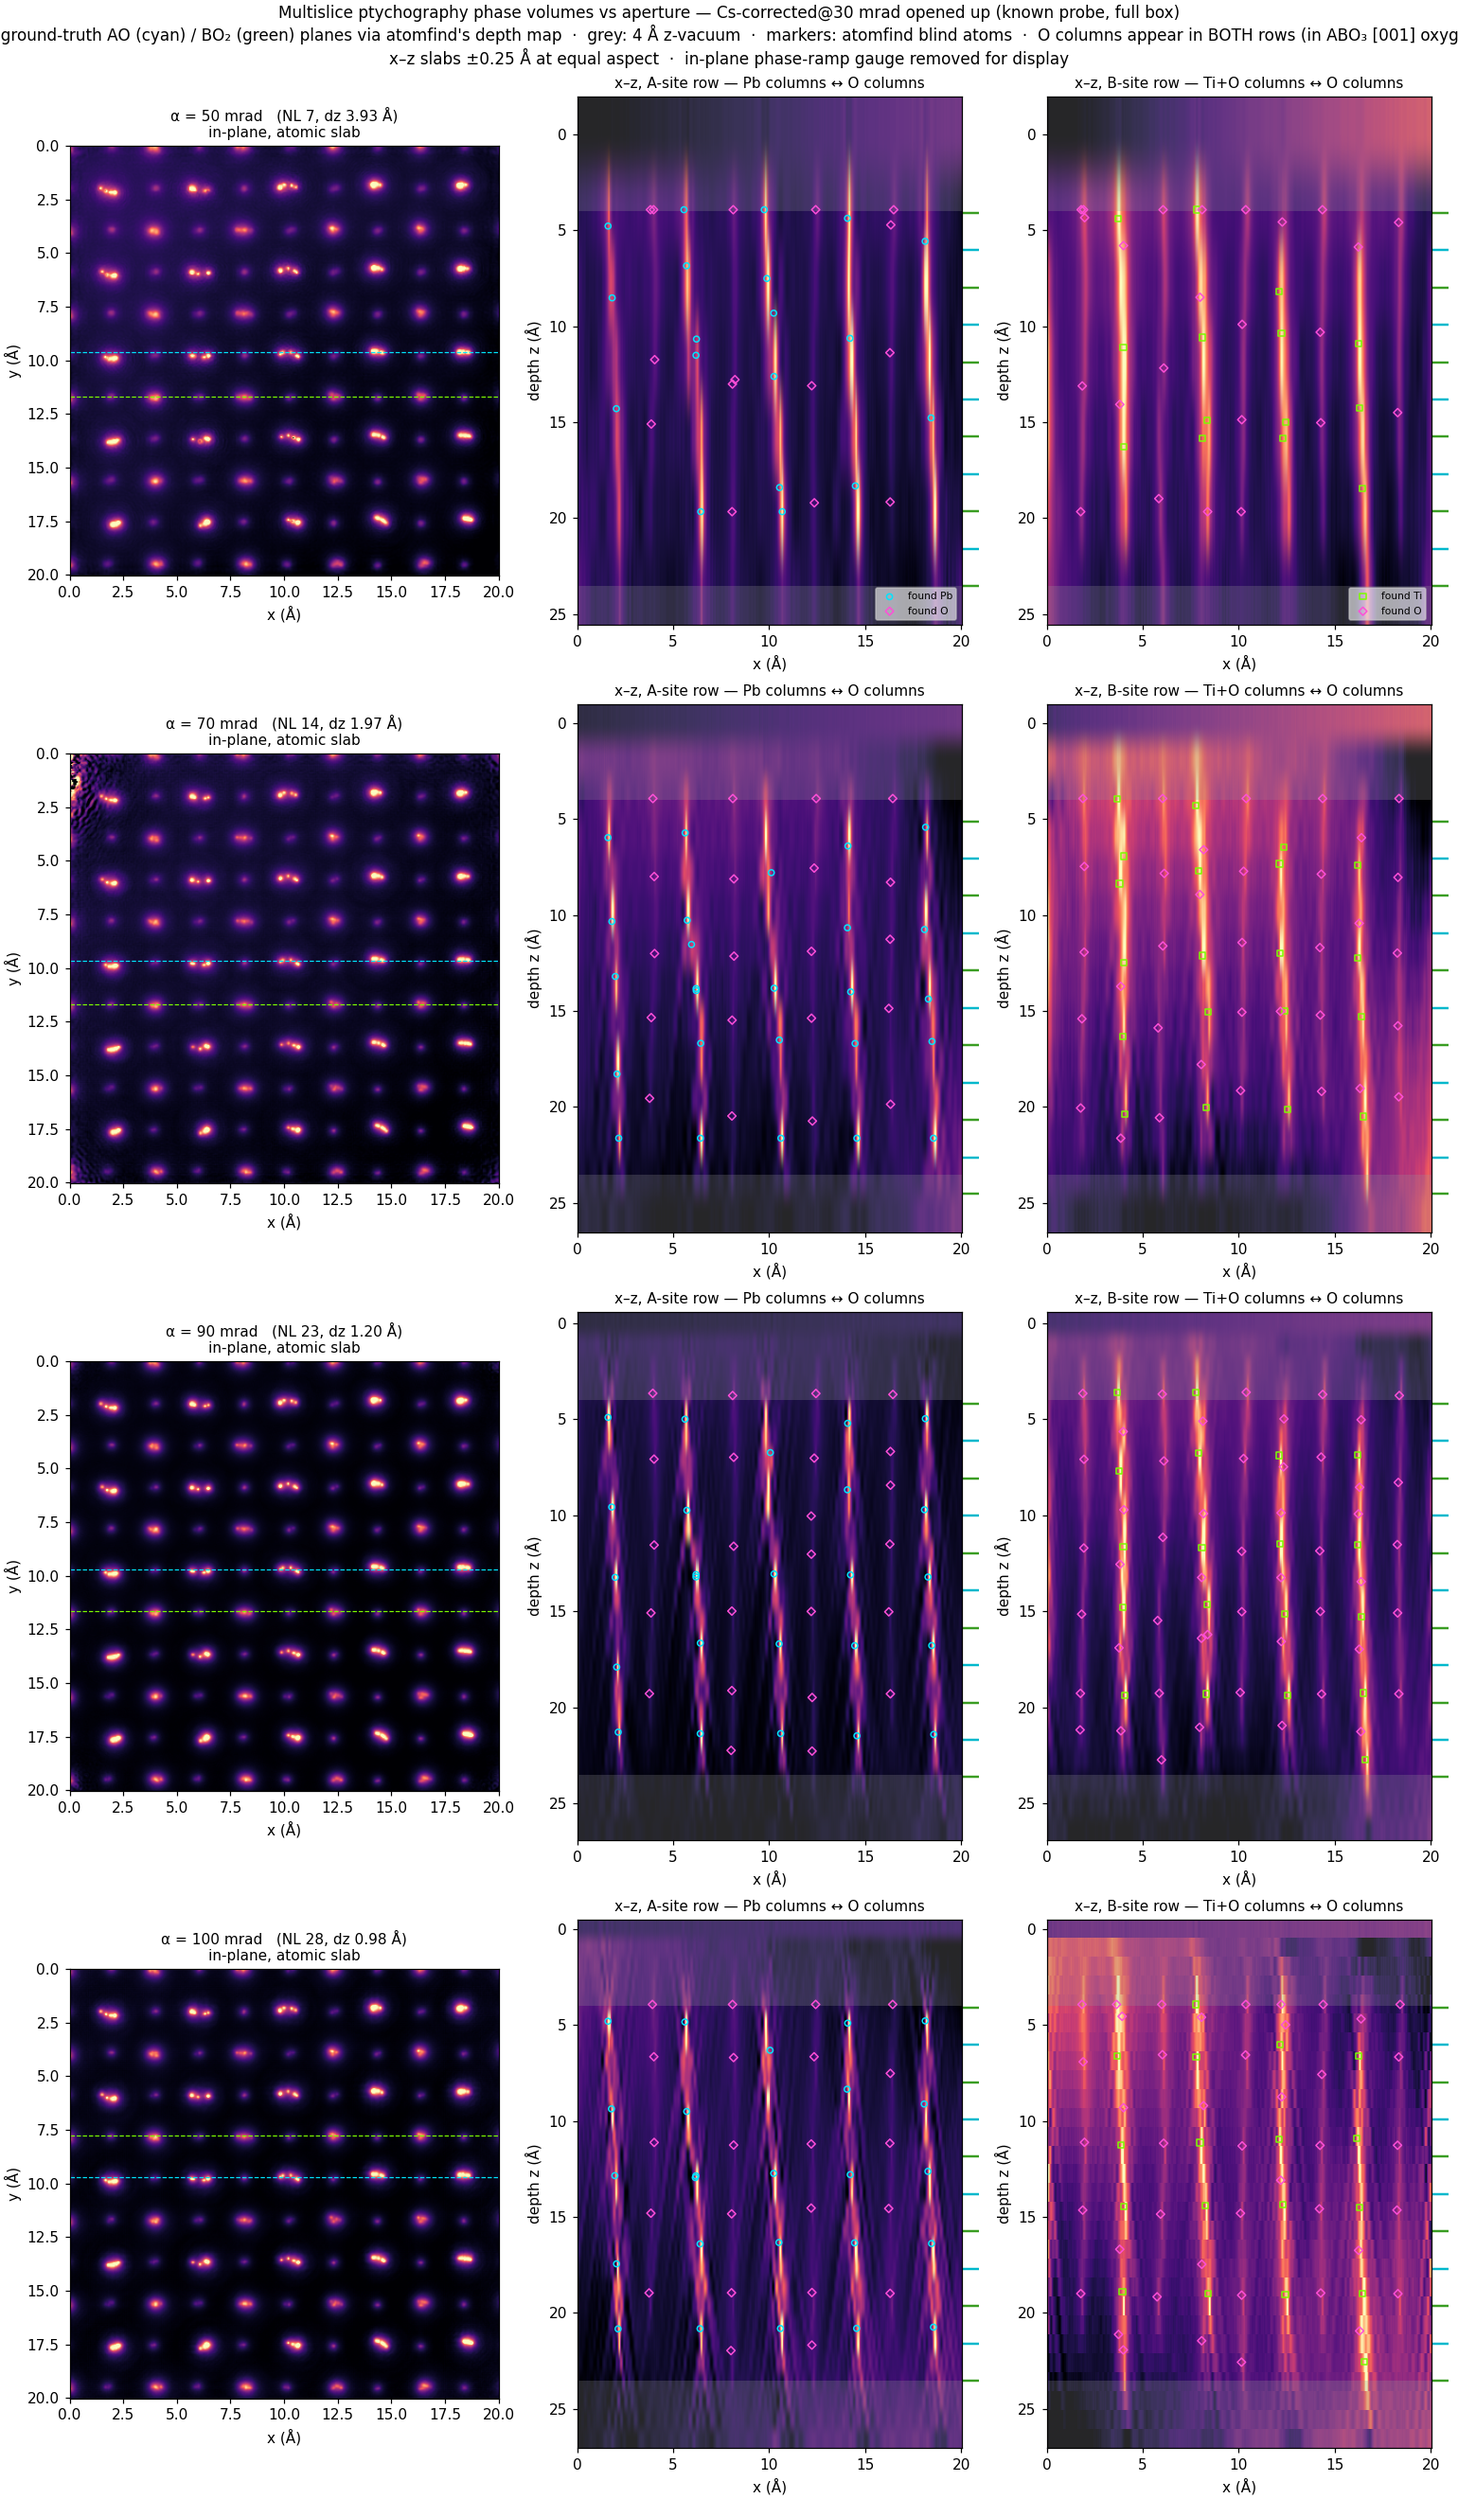
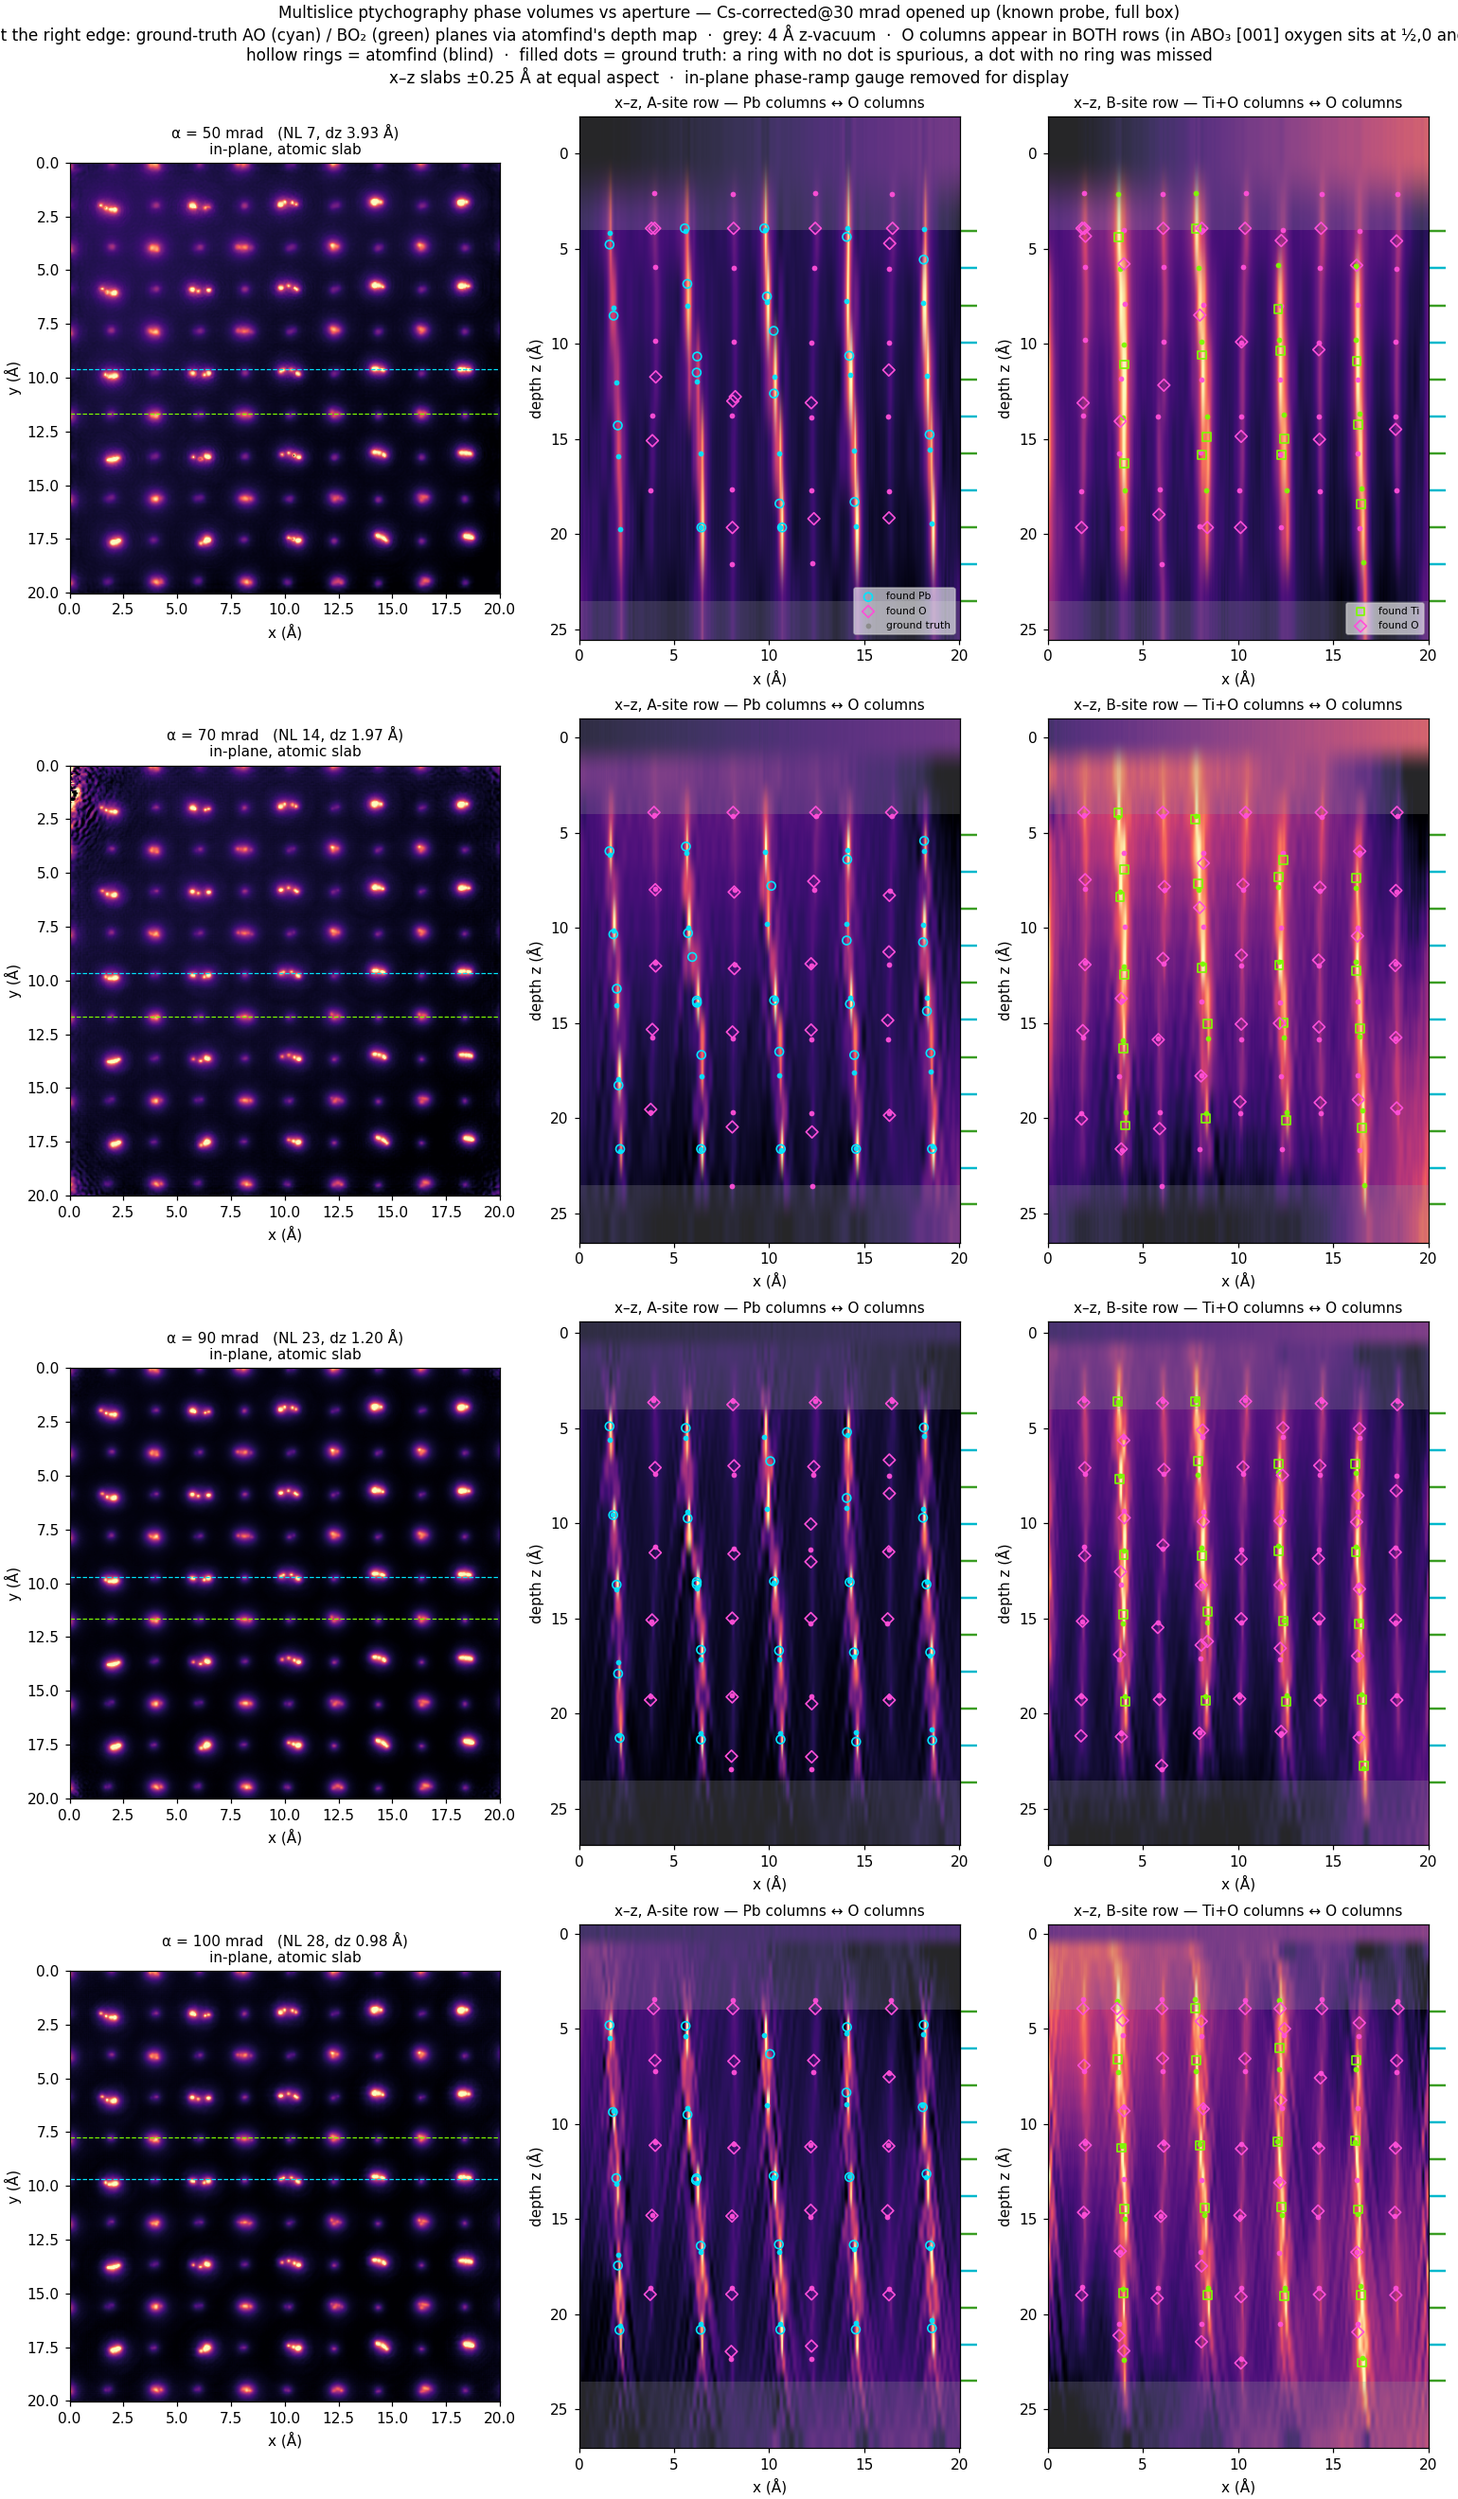
[analysis] MEP figure: draw ground-truth atoms beside the found ones
The x-z panels showed atomfind's atoms against GT plane depths only, so a
misplaced or spurious atom looked the same as a correct one. Now every GT atom is
drawn as a filled dot under the hollow found-marker, mapped through the run's own
Alignment (rebuilt with register + refine_with_atoms rather than read from
report.json, which stores neither the full affine nor the depth-scale term, and
only Alignment.site_to_index can place GT atoms in the recon frame).

The failure modes now read directly off the figure: a ring with no dot is a
spurious atom, a dot with no ring was missed, and a ring offset from its dot is a
misplacement -- which is worth showing rather than hiding.

diff --git a/analysis/make_mep_volumes_fig.py b/analysis/make_mep_volumes_fig.py
@@ -123,12 +123,18 @@ def main():
         V, dx, cfg, pos, Z = load(h5, NL, os.path.expanduser(a.gt))
         V = deplane(V)
         dz = cfg.dz; nL, ny, nx = V.shape
-        found, al = None, None
+        found, al, gt = None, None, None
         if a.atomfind:
             d = os.path.join(os.path.expanduser(a.atomfind), f"atomfind_a{A}")
             if os.path.exists(os.path.join(d, "found_atoms.npy")):
                 found = np.load(os.path.join(d, "found_atoms.npy"))
-                al = json.load(open(os.path.join(d, "report.json")))["align"]
+                # Rebuild the run's alignment rather than reading report.json's summary: it is
+                # deterministic from the same inputs, and only the Alignment object can map GT atoms
+                # into the reconstruction's frame (site_to_index, incl. the affine + depth-scale
+                # refinement that report.json does not store).
+                al = align.refine_with_atoms(align.register(V, dx, pos, Z, cfg), found, pos, Z, cfg)
+                gr, gc, gl = al.site_to_index(pos[:, 0], pos[:, 1], pos[:, 2])
+                gt = (gr, gc, gl)
         half_px = a.half_A / dx
         band = slice(int(round(ZVAC / dz)), nL - int(round(ZVAC / dz)))
 
@@ -168,15 +174,28 @@ def main():
                 x1 = nx * dx
                 for sp, col in ((82, "#00b8cc"), (22, "#3a9d23")):
                     for zg in planes(pos, Z, sp):
-                        axx.plot([x1, x1 + 0.9], [al["SGN"] * zg + al["OFF"]] * 2, color=col,
+                        axx.plot([x1, x1 + 0.9], [al.SGN * zg + al.OFF] * 2, color=col,
                                  lw=1.6, clip_on=False, solid_capstyle="butt")
+            if gt is not None:
+                # GT atoms as small filled dots UNDER the hollow found-markers, so the failure modes
+                # read directly: a ring with no dot is a spurious atom, a dot with no ring was missed,
+                # and a ring offset from its dot is a misplacement.
+                gr, gc, gl = gt
+                m = (np.abs(gr - row) <= 2 * half_px) & (gc >= 0) & (gc < nx)
+                for sp, (nm, col, mk) in SP.items():
+                    q = m & (Z == sp)
+                    if q.any():
+                        axx.scatter(gc[q] * dx, gl[q] * dz, s=14, marker="o", c=col,
+                                    alpha=0.95, linewidths=0, zorder=2)
             if found is not None:
                 m = np.abs(found["row"] - row) <= 2 * half_px
                 for sp, (nm, col, mk) in SP.items():
                     f = found[m & (found["species"] == sp)]
                     if len(f):
-                        axx.scatter(f["col"] * dx, f["z_A"], s=16, marker=mk, facecolors="none",
-                                    edgecolors=col, linewidths=1.0, label=f"found {nm}")
+                        axx.scatter(f["col"] * dx, f["z_A"], s=34, marker=mk, facecolors="none",
+                                    edgecolors=col, linewidths=1.1, zorder=3, label=f"found {nm}")
+                if i == 0 and j == 0:
+                    axx.scatter([], [], s=14, marker="o", c="0.55", linewidths=0, label="ground truth")
             axx.set_xlim(0, nx * dx); axx.set_ylim((nL - 0.5) * dz, -0.5 * dz)
             axx.set_title(f"x–z, {lab}", fontsize=10)
             axx.set_xlabel("x (Å)"); axx.set_ylabel("depth z (Å)")
@@ -188,8 +207,9 @@ def main():
     fig.suptitle("Multislice ptychography phase volumes vs aperture — Cs-corrected@30 mrad opened up "
                  "(known probe, full box)\n"
                  "ticks at the right edge: ground-truth AO (cyan) / BO₂ (green) planes via atomfind's depth map  ·  "
-                 "grey: 4 Å z-vacuum  ·  markers: atomfind blind atoms  ·  O columns appear in BOTH rows "
-                 "(in ABO₃ [001] oxygen sits at ½,0 and 0,½)\n"
+                 "grey: 4 Å z-vacuum  ·  O columns appear in BOTH rows (in ABO₃ [001] oxygen sits at ½,0 "
+                 "and 0,½)\nhollow rings = atomfind (blind)  ·  filled dots = ground truth: a ring with no "
+                 "dot is spurious, a dot with no ring was missed\n"
                  "x–z slabs ±0.25 Å at equal aspect  ·  in-plane phase-ramp gauge removed for display",
                  fontsize=11)
     out = a.out or os.path.join(week_dir("figs"), "mep_volumes.png")
